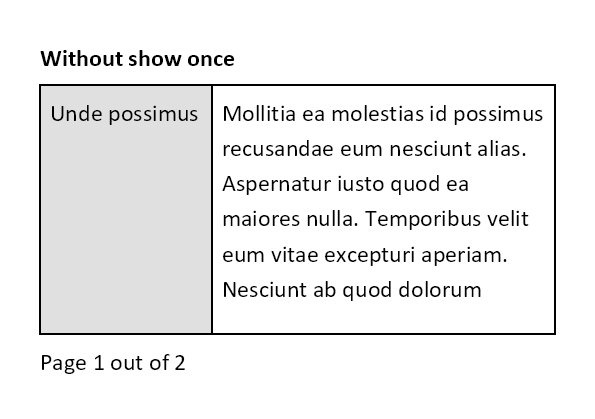
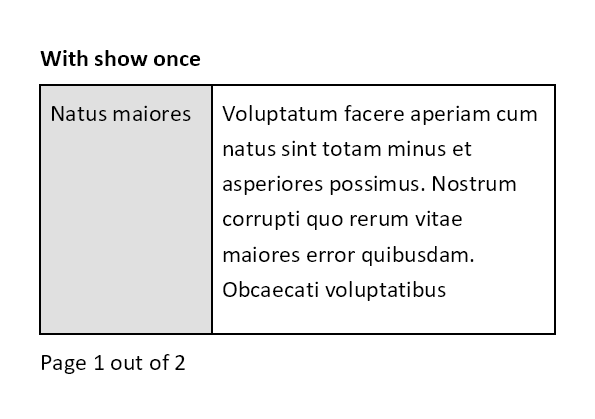
Fixed: ShowOnce example images

diff --git a/api-reference.md b/api-reference.md
@@ -1163,6 +1163,7 @@ Please analyse this simple example showing how to create a simple Table instance
         return container
             .Border(1)
             .Background(Colors.Grey.Lighten3)
+            .ShowOnce()
             .MinWidth(50)
             .MinHeight(50)
             .AlignCenter()
@@ -1417,7 +1418,8 @@ container
             .PaddingVertical(5)
             .PaddingHorizontal(10)
             .AlignCenter()
-            .AlignMiddle();
+            .AlignMiddle()
+            .ShowOnce();
     }
     
     table.ColumnsDefinition(columns =>

diff --git a/releases.md b/releases.md
@@ -173,7 +173,6 @@ Most of the features listed below should be added in the nearest months:
 ### Under consideration
 
 There are also features being actively investigated with lower importance:
-
 - Font subsetting to reduce output file size,
 - Font fallback (using alternative fonts when glyphs are not available),
 - Text justification,
